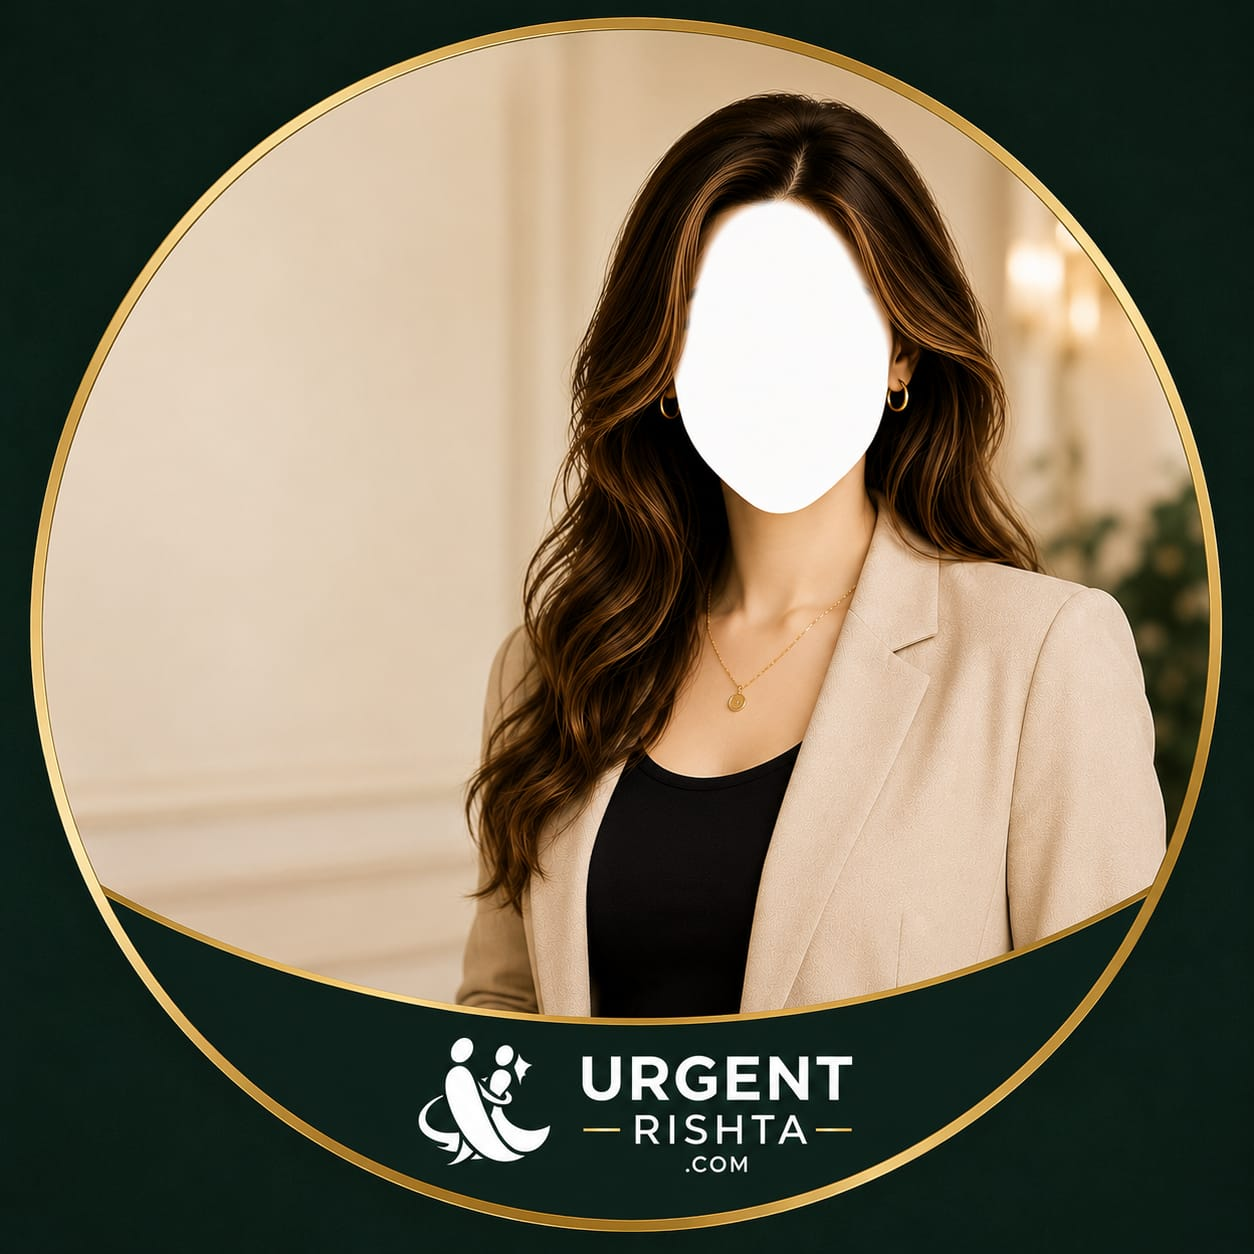
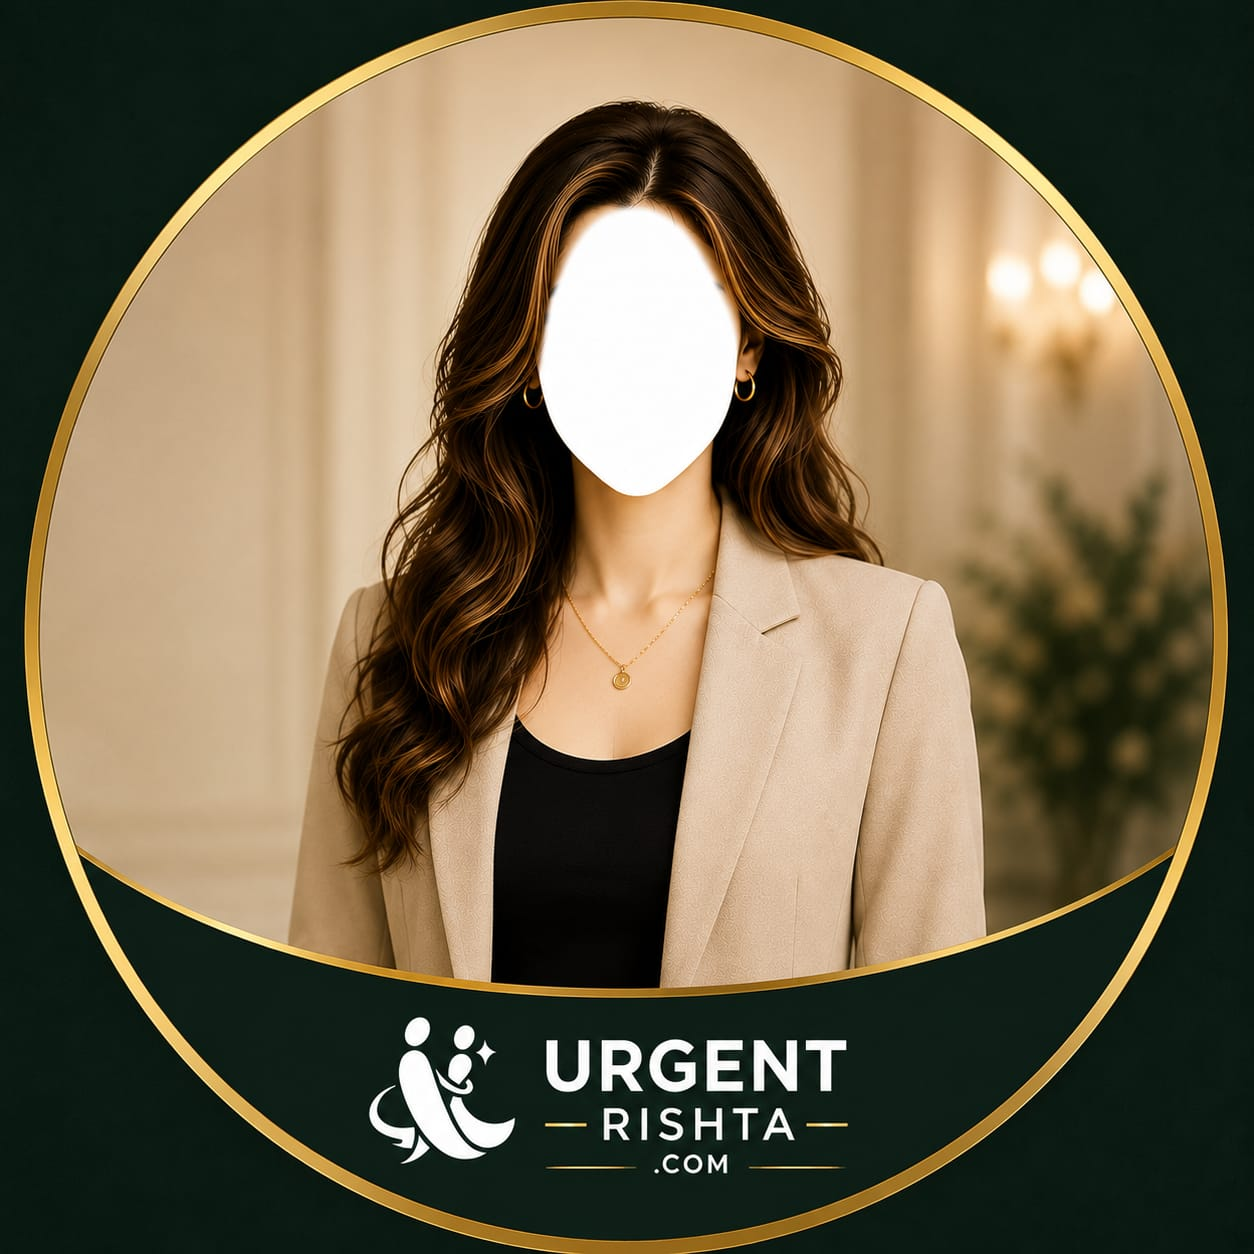
images update and otp code removes

diff --git a/resources/views/auth/login.blade.php b/resources/views/auth/login.blade.php
@@ -277,27 +277,33 @@
             </div>
         @endif
 
-        @if($mode === 'phone')
+        @if($mode === 'phone' || $mode === 'password')
             <h2>Welcome back</h2>
-            <p class="subtitle">Enter your details to continue</p>
+            <p class="subtitle">Use your mobile number and password</p>
 
-            <form method="post" action="{{ route('login.otp.send') }}" id="otp_send_form">
+            <form method="post" action="{{ route('login.password') }}" id="password_login_form">
                 @csrf
-                <input type="hidden" name="country_code" id="otp_country_code" value="{{ $countryCode ?: '92' }}">
-                <input type="hidden" name="mobile" id="otp_mobile_hidden" value="{{ old('mobile', $mobileLocal) }}">
+                <input type="hidden" name="country_code" id="pwd_country_code" value="{{ $countryCode ?: '92' }}">
+                <input type="hidden" name="mobile" id="pwd_mobile_hidden" value="{{ old('mobile', $mobileLocal) }}">
                 <input
                     type="tel"
-                    id="mobile_input"
+                    id="password_mobile_input"
                     class="form-control"
                     placeholder="Mobile no."
                     value="{{ old('mobile', $mobileLocal) }}"
                     required
                     autocomplete="tel"
                 >
-                <button type="submit" class="shaadi-btn-primary" id="get_otp_btn" disabled>Get OTP</button>
+                <div class="login-password-wrap">
+                    <input type="password" name="password" id="password" class="form-control" placeholder="Password" required>
+                    <button type="button" class="login-toggle-password" data-target="password"><i class="fa fa-eye"></i></button>
+                </div>
+                <div class="meta-row">
+                    <label class="mb-0"><input type="checkbox" name="remember" value="checked"> Remember Me</label>
+                    <a href="{{ route('password.request') }}">Forgot password?</a>
+                </div>
+                <button type="submit" class="shaadi-btn-primary">Login</button>
             </form>
-
-            <a class="shaadi-link" href="{{ route('login', ['mode' => 'password']) }}">Login with Password</a>
 
             <div class="shaadi-or">Or</div>
 
@@ -313,63 +319,6 @@
             <p class="footer-note">
                 New here? <a href="{{ url('register') }}">Create an account</a>
             </p>
-        @endif
-
-        @if($mode === 'otp')
-            <a class="back-link" href="{{ route('login') }}"><i class="fa fa-arrow-left"></i> Back</a>
-            <h2>Enter OTP</h2>
-            <p class="otp-hint">
-                We sent a 6-digit code to your email<br>
-                <strong>{{ $otpEmailMasked }}</strong><br>
-                <span style="color:#999;">(SMS OTP will replace this when provider is ready)</span>
-            </p>
-
-            <form method="post" action="{{ route('login.otp.verify') }}">
-                @csrf
-                <div class="form-group">
-                    <input type="text" name="otp" class="form-control text-center" placeholder="Enter OTP" maxlength="6" inputmode="numeric" pattern="[0-9]*" required autofocus style="letter-spacing:6px;font-size:20px;">
-                </div>
-                <button type="submit" class="shaadi-btn-primary">Verify &amp; Login</button>
-            </form>
-
-            <form method="post" action="{{ route('login.otp.send') }}" class="mt-2">
-                @csrf
-                <input type="hidden" name="country_code" value="{{ $countryCode }}">
-                <input type="hidden" name="mobile" value="{{ $mobileLocal }}">
-                <button type="submit" class="shaadi-link" style="background:none;border:0;width:100%;">Resend OTP</button>
-            </form>
-            <a class="shaadi-link" href="{{ route('login', ['mode' => 'password']) }}">Login with Password instead</a>
-        @endif
-
-        @if($mode === 'password')
-            <a class="back-link" href="{{ route('login') }}"><i class="fa fa-arrow-left"></i> Back</a>
-            <h2>Login with Password</h2>
-            <p class="subtitle">Use your mobile number and password</p>
-
-            <form method="post" action="{{ route('login.password') }}" id="password_login_form">
-                @csrf
-                <input type="hidden" name="country_code" id="pwd_country_code" value="92">
-                <input type="hidden" name="mobile" id="pwd_mobile_hidden" value="{{ old('mobile') }}">
-                <input
-                    type="tel"
-                    id="password_mobile_input"
-                    class="form-control"
-                    placeholder="Mobile no."
-                    value="{{ old('mobile') }}"
-                    required
-                    autocomplete="tel"
-                >
-                <div class="login-password-wrap">
-                    <input type="password" name="password" id="password" class="form-control" placeholder="Password" required>
-                    <button type="button" class="login-toggle-password" data-target="password"><i class="fa fa-eye"></i></button>
-                </div>
-                <div class="meta-row">
-                    <label class="mb-0"><input type="checkbox" name="remember" value="checked"> Remember Me</label>
-                    <a href="{{ route('password.request') }}">Forgot password?</a>
-                </div>
-                <button type="submit" class="shaadi-btn-primary">Login</button>
-            </form>
-            <a class="shaadi-link" href="{{ route('login', ['mode' => 'email']) }}">Continue with Email</a>
         @endif
 
         @if($mode === 'email')
@@ -392,7 +341,7 @@
                 </div>
                 <button type="submit" class="shaadi-btn-primary">Login</button>
             </form>
-            <a class="shaadi-link" href="{{ route('login') }}">Login with Mobile OTP</a>
+            <a class="shaadi-link" href="{{ route('login') }}">Login with Mobile Number</a>
         @endif
     </div>
 </div>
@@ -444,7 +393,6 @@
     }
 
     function boot() {
-        initIti('mobile_input', 'otp_send_form', 'otp_country_code', 'otp_mobile_hidden', 'get_otp_btn');
         initIti('password_mobile_input', 'password_login_form', 'pwd_country_code', 'pwd_mobile_hidden', null);
 
         document.querySelectorAll('.login-toggle-password').forEach(function (el) {

diff --git a/app/Http/Controllers/Auth/RegisterController.php b/app/Http/Controllers/Auth/RegisterController.php
@@ -326,38 +326,15 @@ class RegisterController extends Controller
             return redirect()->route('register', ['mode' => 'build']);
         }
 
-        // New/changed email — require OTP
-        Session::forget('register_verified');
-
-        // Local development: SMTP isn't configured/working here, so skip the email
-        // OTP step entirely instead of failing to send. Never bypasses in production
-        // or staging — only when APP_ENV is local or development.
-        if (app()->environment('local', 'development')) {
-            Session::put('register_verified', true);
-            Session::flash('message', 'success|Local environment — email OTP skipped.');
-            Log::info('Register OTP skipped (APP_ENV=local) for ' . $email);
-            if (Session::has('register_education')) {
-                return redirect()->route('register', ['mode' => 'build4']);
-            }
-            return redirect()->route('register', ['mode' => 'build']);
+        // Website decision: registration no longer requires email/mobile OTP
+        // verification — just collect the contact details and continue.
+        // (The OTP send/verify machinery below is left in place, unreachable,
+        // rather than deleted, in case this needs to come back later.)
+        Session::put('register_verified', true);
+        if (Session::has('register_education')) {
+            return redirect()->route('register', ['mode' => 'build4']);
         }
-
-        // Send email OTP immediately, then show verify screen
-        $identifier = 'reg:' . $email;
-        $plainCode = (string) random_int(100000, 999999);
-        try {
-            Mail::to($email)->send(new RegisterOtpMail($plainCode, $email));
-            LoginOtp::issue($identifier, $plainCode, 'email', $email);
-            Session::put('register_otp_email', $email);
-            Session::put('register_email_masked', $this->maskEmail($email));
-            Session::flash('message', 'success|OTP sent to ' . $this->maskEmail($email) . '. Check inbox/spam.');
-            Log::info('Register OTP emailed to ' . $email);
-        } catch (\Exception $e) {
-            Log::error('Register OTP send failed: ' . $e->getMessage());
-            Session::flash('message', 'danger|Could not send OTP right now. Please try again from the next screen.');
-        }
-
-        return redirect()->route('register', ['mode' => 'otp']);
+        return redirect()->route('register', ['mode' => 'build']);
     }
 
     public function sendOtp(Request $request)
@@ -621,12 +598,14 @@ class RegisterController extends Controller
         }
 
         $request->validate([
-            'sect' => 'required|string|max:100',
+            // Sect intentionally not required here for now — deferred to a
+            // dedicated form later. Still accepted/stored if present so that
+            // form isn't a breaking change if it's added back to the page.
+            'sect' => 'nullable|string|max:100',
             'on_behalf' => 'required|string|max:50',
             'mother_tongue' => 'required|string|max:50',
             'password' => 'required|string|min:8|confirmed',
         ], [
-            'sect.required' => 'Please enter your sect.',
             'on_behalf.required' => 'Please select on whose behalf you are registering.',
             'mother_tongue.required' => 'Please select mother tongue.',
             'password.required' => 'Please enter a password.',
@@ -634,7 +613,7 @@ class RegisterController extends Controller
             'password.min' => 'Password must be at least 8 characters.',
         ]);
 
-        Session::put('register_sect', trim($request->sect));
+        Session::put('register_sect', trim((string) $request->sect));
         Session::put('register_on_behalf', $request->on_behalf);
         Session::put('register_mother_tongue', $request->mother_tongue);
         Session::put('register_password', $request->password);

diff --git a/resources/views/auth/register.blade.php b/resources/views/auth/register.blade.php
@@ -592,14 +592,9 @@
 
             <form method="post" action="{{ route('register.build4') }}" id="reg_build4_form">
                 @csrf
-                <div class="reg-field">
-                    <span class="reg-label">Sect</span>
-                    <div class="reg-field-outline">
-                        <span class="float-label">Your Sect *</span>
-                        <input type="text" name="sect" id="reg_build_sect" value="{{ old('sect', $registerSect ?? '') }}" required
-                               style="width:100%;border:0;outline:none;background:transparent;font-size:15px;height:28px;padding:0;">
-                    </div>
-                </div>
+                {{-- Sect intentionally removed from registration for now (deferred to
+                     a dedicated form later — see RegisterController@saveBuild4, which
+                     already treats it as optional and defaults it to '' either way). --}}
                 <div class="reg-field">
                     <span class="reg-label">On Behalf</span>
                     <div class="reg-field-outline">
@@ -797,24 +792,22 @@
         sync();
     })();
 
-    // Build step 4: sect, on behalf, mother tongue, password
+    // Build step 4: on behalf, mother tongue, password (sect removed for now)
     (function () {
         var btn = document.getElementById('reg_continue_build4');
         if (!btn) return;
-        var sect = document.getElementById('reg_build_sect');
         var onBehalf = document.getElementById('reg_build_on_behalf');
         var tongue = document.getElementById('reg_build_mother_tongue');
         var pass = document.getElementById('reg_build_password');
         var pass2 = document.getElementById('reg_build_password_confirmation');
         function sync() {
-            var ok = sect && String(sect.value || '').trim().length > 0
-                && onBehalf && onBehalf.value
+            var ok = onBehalf && onBehalf.value
                 && tongue && tongue.value
                 && pass && String(pass.value || '').length >= 8
                 && pass2 && pass2.value === pass.value;
             btn.disabled = !ok;
         }
-        [sect, onBehalf, tongue, pass, pass2].forEach(function (el) {
+        [onBehalf, tongue, pass, pass2].forEach(function (el) {
             if (!el) return;
             el.addEventListener('input', sync);
             el.addEventListener('change', sync);
